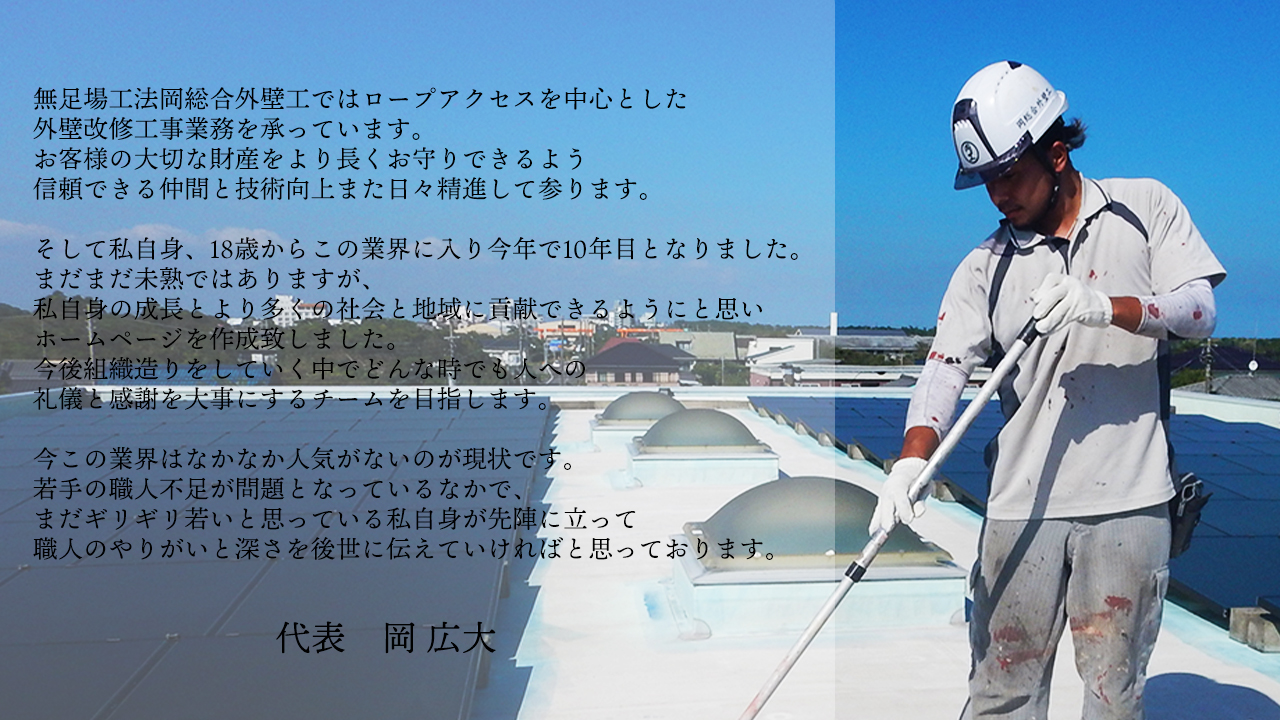
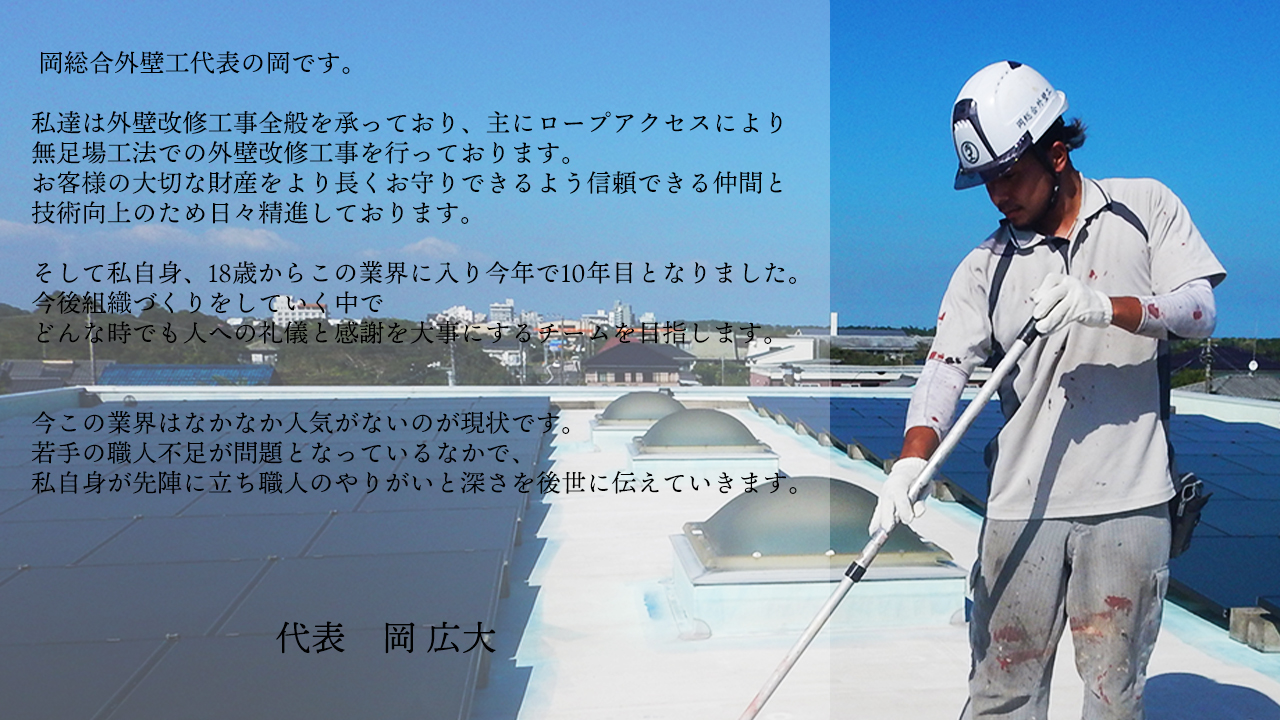
20240502

diff --git a/index.html b/index.html
@@ -78,11 +78,9 @@
 
   <!-- ↓↓↓↓↓↓↓↓↓↓↓↓↓↓↓↓↓↓↓↓↓↓↓↓↓↓↓↓↓↓↓↓ main ↓↓↓↓↓↓↓↓↓↓↓↓↓↓↓↓↓↓↓↓↓↓↓↓↓↓↓↓↓↓↓↓ -->
   <main>
-    <div id="top">
-      <div class="container">
-        <div id="top-photo">
-          <img src="image/main_photo.jpg" alt="代表岡 高所作業中">
-        </div>
+    <div class="container">
+      <div id="top-photo">
+        <img src="image/main_photo.jpg" alt="代表岡 高所作業中">
       </div>
     </div>
 
@@ -236,37 +234,25 @@
 
         <h2 class="title">Contact</h2>
 
-        <div class="Form">
+        <table id="contact-list">
+          <tr>
+            <td>TEL</td>
+            <td class="content">000-000-0000</td>
+          </tr>
+          <tr>
+            <td>MAIL</td>
+            <td class="content">oka@sample.jp</td>
+          </tr>
+          <tr>
+            <td>ACSESS</td>
+            <td class="content">立川市</td>
+          </tr>
+        </table>
 
-          <div class="Form-Item">
-            <p class="Form-Item-Label">会社名</p>
-            <input type="text" class="Form-Item-Input" placeholder="例）株式会社外壁工事">
-          </div>
 
-          <div class="Form-Item">
-            <p class="Form-Item-Label"><span class="Form-Item-Label-Required">必須</span>氏名</p>
-            <input type="text" class="Form-Item-Input" placeholder="例）山田太郎">
-          </div>
+      </div>
 
-          <div class="Form-Item">
-            <p class="Form-Item-Label"><span class="Form-Item-Label-Required">必須</span>電話番号</p>
-            <input type="text" class="Form-Item-Input" placeholder="例）000-0000-0000">
-          </div>
-
-          <div class="Form-Item">
-            <p class="Form-Item-Label"><span class="Form-Item-Label-Required">必須</span>メールアドレス</p>
-            <input type="email" class="Form-Item-Input" placeholder="例）example@gmail.com">
-          </div>
-
-          <div class="Form-Item">
-            <p class="Form-Item-Label isMsg"><span class="Form-Item-Label-Required">必須</span>お問い合わせ内容</p>
-            <textarea class="Form-Item-Textarea"></textarea>
-          </div>
-
-          <input type="submit" class="Form-Btn" value="送信する">
-
-        </div>
-
+      </div>
       </div>
 
     </section>

diff --git a/css/style.css b/css/style.css
@@ -22,7 +22,6 @@ img{
   height: auto;
 }
 
-
 .title{
   font-family: 'Lora', serif;
   padding-bottom: 40px;
@@ -125,18 +124,32 @@ section{
   font-size: 15px !important;
 }
 
-  /* ↓↓↓↓↓↓↓↓↓↓↓↓↓↓↓↓↓↓↓↓↓↓↓ 安全管理 ↓↓↓↓↓↓↓↓↓↓↓↓↓↓↓↓↓↓↓↓↓↓↓ */
-
   /* ↓↓↓↓↓↓↓↓↓↓↓↓↓↓↓↓↓↓↓↓↓↓↓ 作業写真 ↓↓↓↓↓↓↓↓↓↓↓↓↓↓↓↓↓↓↓↓↓↓↓ */
 
   #photos{
     padding: 15px 10px;
   }
 
+  /* ↓↓↓↓↓↓↓↓↓↓↓↓↓↓↓↓↓↓↓↓↓↓↓ お問合せ ↓↓↓↓↓↓↓↓↓↓↓↓↓↓↓↓↓↓↓↓↓↓↓ */
+
+  #contact{
+    padding-bottom: 70px;
+  }
+
+  #contact-list{
+    margin: auto;
+  }
+
+  .content{
+    padding-left: 20px;
+  }
+
+
   /* ↓↓↓↓↓↓↓↓↓↓↓↓↓↓↓↓↓↓↓↓↓↓↓ page-top ↓↓↓↓↓↓↓↓↓↓↓↓↓↓↓↓↓↓↓↓↓↓↓ */
 .page-top{
   text-align: center;
 }
+
 
   /* ↓↓↓↓↓↓↓↓↓↓↓↓↓↓↓↓↓↓↓↓↓↓↓ footer ↓↓↓↓↓↓↓↓↓↓↓↓↓↓↓↓↓↓↓↓↓↓↓ */
 .footer{
@@ -314,8 +327,6 @@ section{
     width: 100%;
     object-fit: cover;
   }
-
-  /* ↓↓↓↓↓↓↓↓↓↓↓↓↓↓↓↓↓↓↓↓↓↓↓ SP ハンバーガーメニュー ↓↓↓↓↓↓↓↓↓↓↓↓↓↓↓↓↓↓↓↓↓↓↓ */  
 
   /* ↓↓↓↓↓↓↓↓↓↓↓↓↓↓↓↓↓↓↓↓↓↓↓ SP Service ~事業内容~ ↓↓↓↓↓↓↓↓↓↓↓↓↓↓↓↓↓↓↓↓↓↓↓ */
 

diff --git a/js/main.js b/js/main.js
@@ -1,15 +1,3 @@
-
-// ハンバーガーメニュー
-document.addEventListener("DOMContentLoaded", function() {
-  const hamburger = document.querySelector('.hamburger-menu');
-  const menuItems = document.querySelector('.menu-items');
-
-  hamburger.addEventListener('click', function() {
-    menuItems.classList.toggle('menu-items');
-  });
-});
-
-
 // 画像集サムネイル表示
 const thumbs = document.querySelectorAll('.thumb');
   console.log(thumbs);
@@ -20,8 +8,3 @@ const thumbs = document.querySelectorAll('.thumb');
   });
 
 
-  $(document).ready(function(){
-    $(".nav-link").on('click', function(){
-      $(".navbar-collapse").collapse('hide');
-    });
-  });
